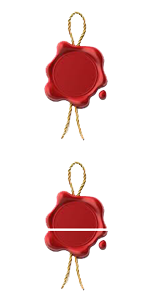
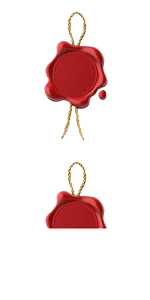
fix half stitch bug

Changed region(s): [[0.2933, 0.75, 0.72, 0.99]]

diff --git a/css/style.css b/css/style.css
@@ -44,6 +44,16 @@
 	background-position: 0 0;
 }
 
+#half {
+	display: none;
+	margin: 0 auto;
+	margin-top: 45px;
+	margin-bottom: -120px;
+	width: 139px;
+	height: 75px;
+	background: url(../img/half.png) no-repeat;
+}
+
 #envelope {
 	display: none;
 }

diff --git a/js/letter.js b/js/letter.js
@@ -56,6 +56,7 @@ $("#open").click(function () {
 		});
 
 		$('#open').find("span").eq(0).css('background-position', "0 -150px");
+		$('#half').css('display', "block");
 
 		envelope_opened = true;
 

diff --git a/index.html b/index.html
@@ -47,6 +47,7 @@
 						</div>
 					</div>
 					<div id="top">
+						<span id="half"></span>
 						<a id="flip" href="#contact">🔗</a>
 					</div>
 					<div id="lid" class="container">
